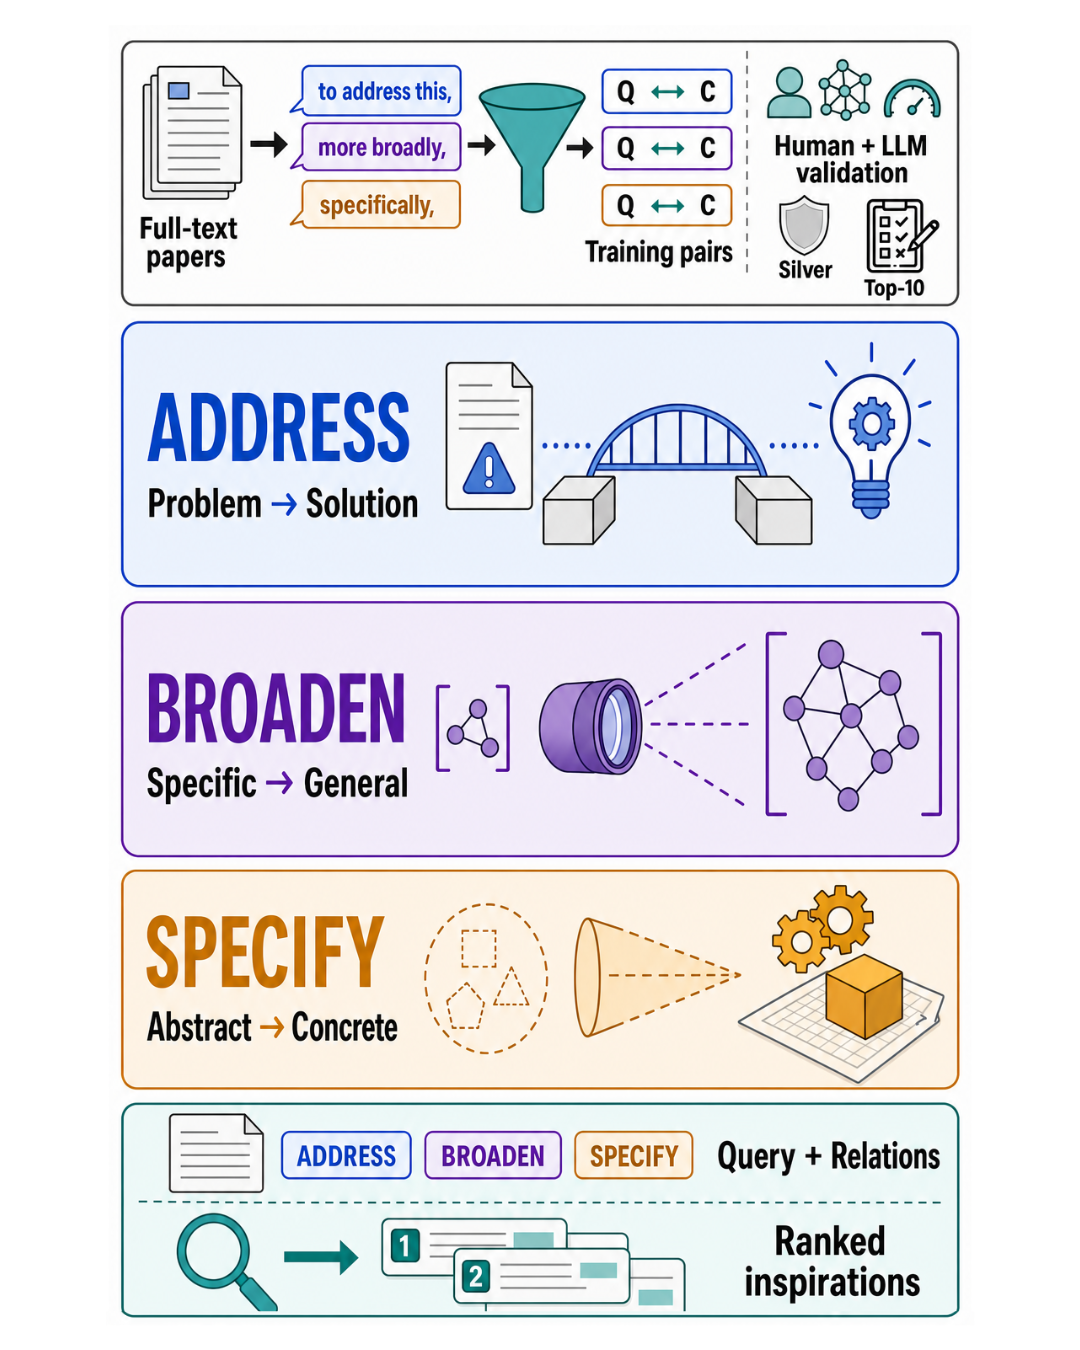
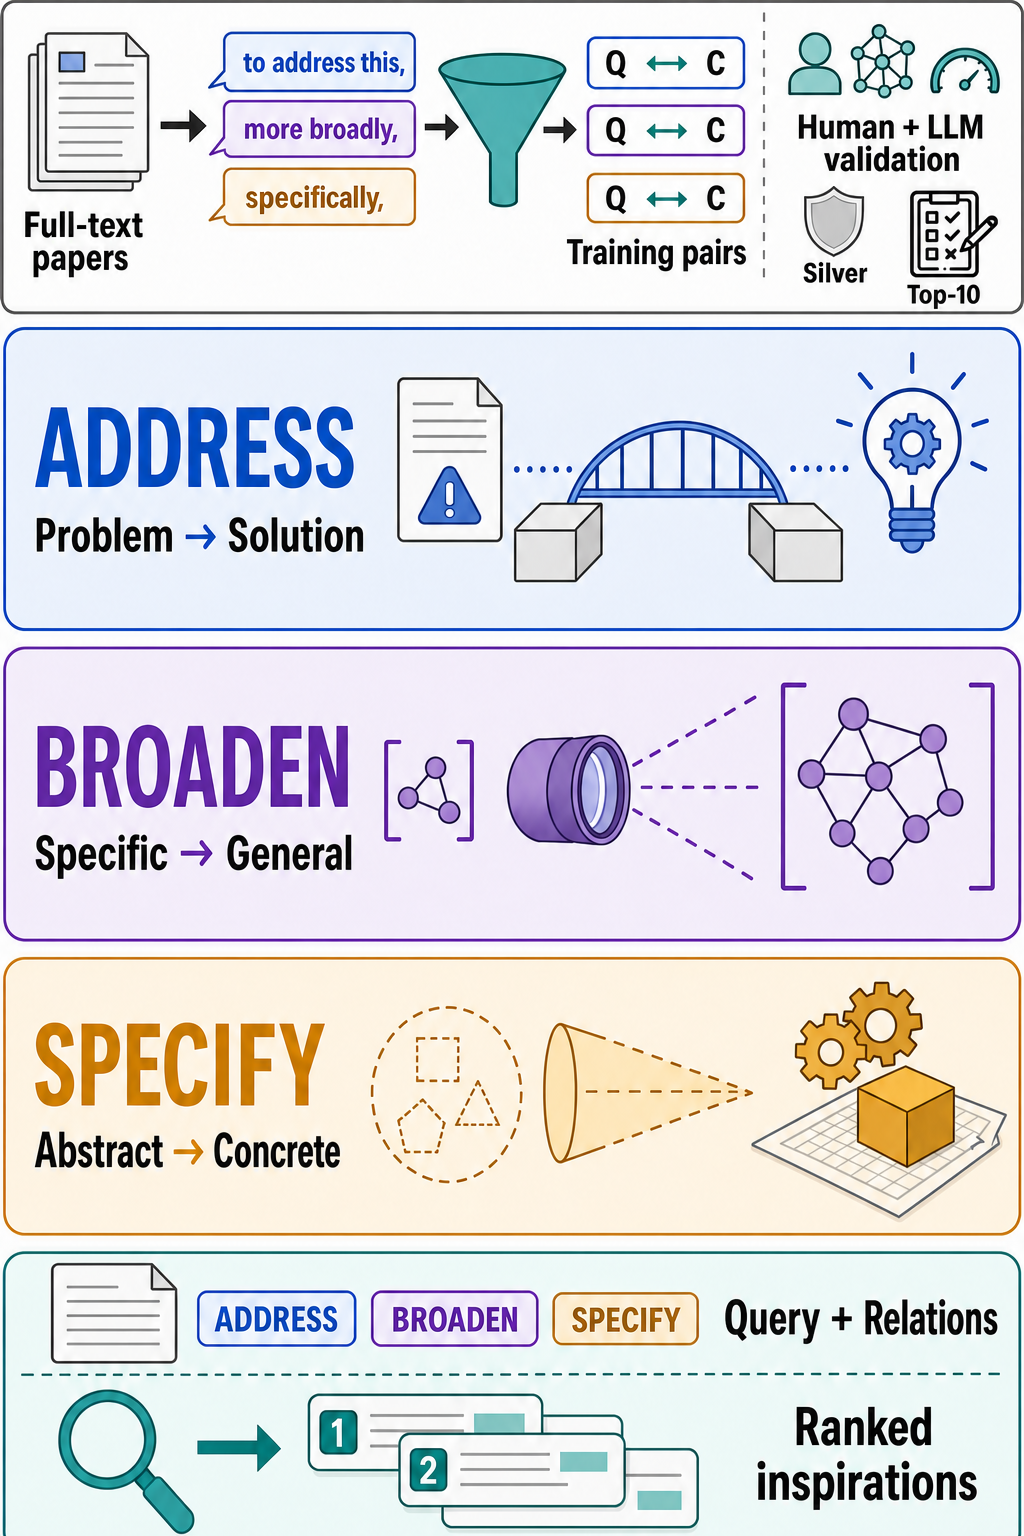
links and project page update with paper's details and links

diff --git a/docs/index.html b/docs/index.html
@@ -110,13 +110,45 @@
     pre#bibtex-block { white-space: pre-wrap; }
     .footer { background-color: #fafafa; }
     .stat-number { font-size: 2rem; font-weight: 700; font-family: 'Google Sans', sans-serif; }
+    .query-chip {
+      background: #2b3a55; color: #fff; border-radius: 8px;
+      padding: 0.75rem 1rem; font-weight: 600; text-align: center; margin: 0.5rem 0 1rem;
+    }
+    .move-example { border-radius: 8px; padding: 0.9rem 1.1rem; height: 100%; }
+    .move-example .tag {
+      font-family: 'Google Sans', sans-serif; font-weight: 700; letter-spacing: 0.04em;
+      font-size: 0.95rem; display: block; margin-bottom: 0.15rem;
+    }
+    .move-example .sub { font-size: 0.8rem; text-transform: uppercase; letter-spacing: 0.05em; opacity: 0.7; }
+    .move-example .cand { margin-top: 0.5rem; font-size: 0.95rem; }
+    .fail-box {
+      background: #fbeeee; border: 1px solid #e6c3c3; border-radius: 8px;
+      padding: 1rem 1.25rem; margin: 1rem 0;
+    }
+    .fail-box .hit { color: #8a4a4a; margin: 0.15rem 0; }
+    .fail-punch { font-weight: 600; color: #a03434; margin-top: 0.5rem; }
+    table.ideation-table { width: 100%; border-collapse: separate; border-spacing: 0 0.5rem; margin: 1.25rem 0; }
+    table.ideation-table td { vertical-align: middle; }
+    td.problem-cell {
+      background: #2b3a55; color: #fff; border-radius: 10px;
+      padding: 1.25rem; text-align: center; width: 34%;
+    }
+    td.problem-cell .problem-label { font-size: 0.8rem; text-transform: uppercase; letter-spacing: 0.06em; opacity: 0.75; }
+    td.problem-cell .problem-text { font-family: 'Google Sans', sans-serif; font-weight: 700; font-size: 1.25rem; margin-top: 0.4rem; }
+    td.arrow-cell { width: 4%; text-align: center; color: #8a8a8a; font-size: 1.5rem; }
+    td.moves-cell { padding-left: 0; }
+    .move-row { border-radius: 8px; padding: 0.85rem 1.1rem; margin-bottom: 0.5rem; }
+    .move-row:last-child { margin-bottom: 0; }
+    .move-row .mr-tag { font-family: 'Google Sans', sans-serif; font-weight: 700; letter-spacing: 0.04em; }
+    .move-row .mr-sub { font-size: 0.8rem; text-transform: uppercase; letter-spacing: 0.05em; opacity: 0.7; margin-left: 0.4rem; }
+    .move-row .mr-cand { margin-top: 0.2rem; }
     .stat-label { color: #6a6a6a; font-size: 0.9rem; }
   </style>
 </head>
 <body>
 
 <div class="news-banner">
-  🎉 The dataset and fine-tuned models are now available on <a href="https://huggingface.co/collections/maayans/ratio">Hugging Face</a>! 🎉
+  🎉 The dataset and fine-tuned models are now available on <a href="https://huggingface.co/collections/maayans/ratio" target="_blank" rel="noopener">Hugging Face</a>! 🎉
 </div>
 
 <section class="hero">
@@ -129,8 +161,8 @@
           </h1>
           <div class="is-size-5 publication-authors">
             <!-- TODO: add link to Maayan Sharon's homepage -->
-            <span class="author-block"><a href="#TODO">Maayan Sharon</a><sup>1</sup>,</span>
-            <span class="author-block"><a href="https://tomhoper.github.io/">Tom Hope</a><sup>1,2</sup></span>
+            <span class="author-block"><a href="https://github.com/maayansharon10" target="_blank" rel="noopener">Maayan Sharon</a><sup>1</sup>,</span>
+            <span class="author-block"><a href="https://tomhoper.github.io/" target="_blank" rel="noopener">Tom Hope</a><sup>1,2</sup></span>
           </div>
           <div class="is-size-5 publication-authors">
             <span class="author-block"><sup>1</sup>The Hebrew University of Jerusalem,</span>
@@ -141,17 +173,17 @@
             <div class="publication-links">
               <!-- TODO: add the arXiv link once available -->
               <span class="link-block">
-                <a href="#TODO" class="external-link button is-normal is-rounded is-dark">
+                <a href="https://arxiv.org/abs/2608.27394" target="_blank" rel="noopener" class="external-link button is-normal is-rounded is-dark">
                   <span class="icon"><i class="ai ai-arxiv"></i></span><span>Paper</span>
                 </a>
               </span>
               <span class="link-block">
-                <a href="https://github.com/maayansharon10/RATIO" class="external-link button is-normal is-rounded is-dark">
+                <a href="https://github.com/maayansharon10/RATIO" class="external-link button is-normal is-rounded is-dark" target="_blank" rel="noopener">
                   <span class="icon"><i class="fab fa-github"></i></span><span>Code</span>
                 </a>
               </span>
               <span class="link-block">
-                <a href="https://huggingface.co/collections/maayans/ratio" class="external-link button is-normal is-rounded is-dark">
+                <a href="https://huggingface.co/collections/maayans/ratio" class="external-link button is-normal is-rounded is-dark" target="_blank" rel="noopener">
                   <span class="icon">🤗</span><span>Data &amp; Models</span>
                 </a>
               </span>
@@ -197,18 +229,62 @@
 
     <h3 class="title is-4">Ideation what?</h3>
     <p>
-      Engaging with prior work is central to how researchers develop new ideas. Consider a researcher grappling
-      with <em>reward hacking in RL-trained LLMs</em>. Three different inspirations may be helpful: one proposing a
-      method (e.g., reward-model ensembles), one zooming out to a more general principle (e.g., Goodhart's law),
-      and one zooming in on a concrete instantiation of that principle in a new setting (e.g., recommender systems
-      gaming engagement metrics). Each one enables a distinct <b>move</b> through the ideation space&mdash;addressing
-      a problem, abstracting it, or grounding it.
+      Engaging with prior work is central to how researchers develop new ideas. Consider a researcher grappling with
+      a problem &mdash; prior literature can inspire them in three distinct ways, each a distinct <b>move</b> through
+      the ideation space:
     </p>
+
+    <table class="ideation-table">
+      <tr>
+        <td class="problem-cell" rowspan="3">
+          <div class="problem-label">A researcher grappling with</div>
+          <div class="problem-text">Reward hacking in RL-trained LLMs</div>
+        </td>
+        <td class="arrow-cell">&rarr;</td>
+        <td class="moves-cell">
+          <div class="move-row move-address">
+            <span class="mr-tag">ADDRESS</span><span class="mr-sub">addressing the problem</span>
+            <div class="mr-cand">A method that mitigates it: <em>Reward-model ensembles</em></div>
+          </div>
+        </td>
+      </tr>
+      <tr>
+        <td class="arrow-cell">&rarr;</td>
+        <td class="moves-cell">
+          <div class="move-row move-broaden">
+            <span class="mr-tag">BROADEN</span><span class="mr-sub">abstracting it</span>
+            <div class="mr-cand">The general principle behind it: <em>Goodhart's law</em></div>
+          </div>
+        </td>
+      </tr>
+      <tr>
+        <td class="arrow-cell">&rarr;</td>
+        <td class="moves-cell">
+          <div class="move-row move-specify">
+            <span class="mr-tag">SPECIFY</span><span class="mr-sub">grounding it</span>
+            <div class="mr-cand">The same principle elsewhere: <em>Recommender systems gaming engagement metrics</em></div>
+          </div>
+        </td>
+      </tr>
+    </table>
+
+    <h3 class="title is-4">Standard search ranks by topic, so the papers that suggest a move stay buried</h3>
     <p>
       Most scholarly retrieval benchmarks evaluate topical relevance or whether a document answers a search query.
-      These criteria do not distinguish between passages that play different <em>ideation roles</em>.
-      <span style="font-variant: small-caps;">Ratio</span> organizes retrieval around three moves that capture
-      complementary forms of inspiration:
+      These criteria do not distinguish between passages that play different <em>ideation roles</em>. Run the query
+      above through BM25 or a dense encoder, and every top hit is <em>about</em> reward hacking:
+    </p>
+    <div class="fail-box">
+      <div class="hit">&bull; Surveys of reward hacking</div>
+      <div class="hit">&bull; Evaluations of reward over-optimization</div>
+      <div class="hit">&bull; Definitions and taxonomies</div>
+      <div class="fail-punch">Every hit is about the topic. Not one of them is a move.</div>
+    </div>
+    <p>
+      The three inspirations above all sit in the same corpus, but they share almost no wording with the query, so
+      a topical retriever ranks them far below. What we need is the <em>relation</em> between query and candidate,
+      not the subject. <span style="font-variant: small-caps;">Ratio</span> organizes retrieval around exactly
+      these three moves:
     </p>
 
     <div class="columns">
@@ -266,8 +342,8 @@
     <p>
       Move-specific marker lexicons are built by an iterative multi-stage process combining manual corpus analysis,
       rule-based (Hearst-style) pattern expansion, and generation by multiple LLMs, followed by expert review and
-      LLM validation. Of 4,256 candidate markers, 807 fired in the corpus; two NLP experts independently vetted all
-      807 and found every one valid. Markers rejected during curation become <em>distractor</em> markers whose
+      LLM validation. Of 4,252 candidate markers, 809 fired in the corpus; two NLP experts independently vetted all
+      809 and found every one valid. Markers rejected during curation become <em>distractor</em> markers whose
       sentences are added to the candidate pool as hard negatives, removing pool-membership shortcuts.
     </p>
 
@@ -281,25 +357,25 @@
     <h4 class="title is-5">Scale</h4>
     <div class="columns has-text-centered">
       <div class="column">
-        <div class="stat-number">3.59M</div>
+        <div class="stat-number">3.02M</div>
         <div class="stat-label">query&ndash;gold pairs (all splits)</div>
       </div>
       <div class="column">
-        <div class="stat-number">14.55M</div>
-        <div class="stat-label">candidate sentences (all splits)</div>
+        <div class="stat-number">13.8M</div>
+        <div class="stat-label">training candidate sentences</div>
       </div>
       <div class="column">
         <div class="stat-number">1.1M</div>
         <div class="stat-label">source papers</div>
       </div>
       <div class="column">
-        <div class="stat-number">807</div>
+        <div class="stat-number">809</div>
         <div class="stat-label">human-vetted markers</div>
       </div>
     </div>
     <p>
-      <span style="font-variant: small-caps;">Ratio</span> comprises 2,779,177 SPECIFY, 793,347 ADDRESS, and
-      15,592 BROADEN pairs. Splits are <b>temporal</b> to enforce a strict approach against contamination:
+      <span style="font-variant: small-caps;">Ratio</span> comprises 3,017,476 query&ndash;gold pairs&mdash;2,779,177 SPECIFY, 222,707 ADDRESS, and
+      15,592 BROADEN. Splits are <b>temporal</b> to enforce a strict approach against contamination:
       training uses papers from 2015 through September 2025, validation the remainder of 2025, and the test set
       papers from 2026 only&mdash;postdating the public release of every evaluated model, so no backbone could have
       encountered them during pre-training. The candidate corpus of each split is shared by all three relations,
@@ -330,9 +406,9 @@
           </tr>
           <tr>
             <td>ADDRESS</td>
-            <td class="has-text-right">719,136</td>
-            <td class="has-text-right">31,963</td>
-            <td class="has-text-right">42,248</td>
+            <td class="has-text-right">195,605</td>
+            <td class="has-text-right">13,082</td>
+            <td class="has-text-right">14,020</td>
           </tr>
           <tr>
             <td>BROADEN</td>
@@ -350,9 +426,10 @@
 
     <h4 class="title is-5">Human-calibrated validation</h4>
     <p>
-      We complement the mined benchmark with a human-calibrated, LLM-validated <b>silver test set</b> of 13,729 queries.
+      We complement the mined benchmark with a human-calibrated, LLM-validated <b>silver test set</b> of 17,579 queries
+      (7,327 SPECIFY, 9,668 ADDRESS, 584 BROADEN).
       For each relation we write 4&ndash;6 candidate validation prompts and keep the two that best match expert
-      judgments (F1 of .85&ndash;.88 for ADDRESS and SPECIFY, .76 for BROADEN, against 300 expert annotations);
+      judgments (F1 of .83&ndash;.84 for ADDRESS, .86&ndash;.87 for SPECIFY, .76 for BROADEN, against 300 expert annotations);
       inter-annotator F1 among five experts is .87 / .90 / .82. A pair is kept only if both prompts accept it.
       We further validate <b>top-10 retrieved candidates</b> to account for false negatives.
     </p>
@@ -362,7 +439,7 @@
       We evaluate BM25 and three dense retrievers (all-mpnet-base-v2, ModernBERT-embed-large, Stella-en-1.5B-v5),
       each as a pre-trained baseline and after relation-specific contrastive fine-tuning. Baseline pre-trained
       models provide limited gains over BM25, whereas move-specific fine-tuning yields substantial improvements,
-      increasing performance by <b>1.5&times;&ndash;2.7&times;</b>. ModernBERT-embed-large is the strongest model
+      increasing MRR@10 by <b>1.6&times;&ndash;2.4&times;</b> for ModernBERT-embed-large. ModernBERT-embed-large is the strongest model
       on every operation:
     </p>
 
@@ -380,19 +457,19 @@
           <tr>
             <td>BM25 (unigram)</td>
             <td class="has-text-centered">17.6</td>
-            <td class="has-text-centered">8.7</td>
+            <td class="has-text-centered">8.3</td>
             <td class="has-text-centered">10.9</td>
           </tr>
           <tr>
             <td>ModernBERT-embed-large &mdash; baseline</td>
-            <td class="has-text-centered">26.0</td>
-            <td class="has-text-centered">11.1</td>
+            <td class="has-text-centered">26.7</td>
+            <td class="has-text-centered">10.2</td>
             <td class="has-text-centered">17.3</td>
           </tr>
           <tr>
             <td><b>ModernBERT-embed-large &mdash; fine-tuned</b></td>
-            <td class="has-text-centered"><b>44.0</b></td>
-            <td class="has-text-centered"><b>29.5</b></td>
+            <td class="has-text-centered"><b>46.7</b></td>
+            <td class="has-text-centered"><b>24.5</b></td>
             <td class="has-text-centered"><b>27.3</b></td>
           </tr>
         </tbody>
@@ -406,18 +483,18 @@
 
     <h3 class="title is-4">The mined positive is not the only valid inspiration</h3>
     <p>
-      Single-positive metrics are a scalable lower bound: they test whether the retriever ranks one known-valid
-      inspiration highly, not whether the mined positive is the only valid one. We therefore judge each of the
-      top-10 retrieved candidates independently with human-calibrated LLM prompts (400 queries per relation,
-      24K judged pairs). After fine-tuning, at least one accepted candidate appears in the top 10 for
-      <b>89.0%</b> of SPECIFY and <b>80.0%</b> of ADDRESS queries (hard agreement: both prompts accept), with accepted candidates per ADDRESS list rising
-      from 0.60 to 2.36.
+      One gold per query makes every number a <b>floor</b>: with 404,371 candidates, the corpus almost certainly
+      holds other valid answers the single mined gold misses. To measure what fine-tuning actually learned, we judge
+      each of the top-10 retrieved candidates independently with human-calibrated LLM prompts (400 queries per
+      relation, 24K judged pairs). After fine-tuning, at least one accepted candidate appears in the top 10 for
+      <b>89.0%</b> of SPECIFY and <b>76.5%</b> of ADDRESS queries (hard agreement: both prompts accept), with
+      accepted candidates per ADDRESS list rising from 0.61 to 1.67.
     </p>
     <p>
-      On tuned ADDRESS, for 40.8% of queries the gold is not ranked in the top 10 yet the judge accepts an
-      alternative candidate; counting any accepted candidate raises ADDRESS MRR@10 from 29.5 to 48.7.
+      On tuned ADDRESS, for 41.2% of queries the gold is not ranked in the top 10 yet the judge accepts an
+      alternative candidate; counting any accepted candidate raises ADDRESS MRR@10 from 24.5 to 41.2.
       These discovered positives overlap lexically with the query <em>less</em> than the mined positives do,
-      and <b>88&ndash;94%</b> of all accepted candidates come from papers other than the query's&mdash;tuned
+      and <b>88&ndash;90%</b> of all accepted candidates come from papers other than the query's&mdash;tuned
       retrievers surface valid solution directions from the broader literature, i.e., inspiration in the intended
       sense, rather than exploiting adjacency or other shallow shortcuts.
     </p>
@@ -434,16 +511,15 @@
 
 <section class="section" id="BibTeX">
   <div class="container is-max-desktop content">
-    <h2 class="title">BibTeX</h2>
-    <!-- TODO: replace with the final BibTeX entry once the arXiv ID exists -->
-    <pre id="bibtex-block"><code>@misc{sharon2026ratio,
-  title={RATIO: A Benchmark for Retrieval Across Typed Ideation Operations in Scientific Literature},
-  author={Maayan Sharon and Tom Hope},
-  year={2026},
-  eprint={TODO},
-  archivePrefix={arXiv},
-  primaryClass={cs.CL},
-  url={TODO},
+    <h2 class="title">Citation (BibTeX)</h2>
+    <pre id="bibtex-block"><code>@misc{sharon2026ratiobenchmarkretrievaltyped,
+      title={RATIO: A Benchmark for Retrieval Across Typed Ideation Operations in Scientific Literature},
+      author={Maayan Sharon and Tom Hope},
+      year={2026},
+      eprint={2608.27394},
+      archivePrefix={arXiv},
+      primaryClass={cs.CL},
+      url={https://arxiv.org/abs/2608.27394},
 }</code></pre>
   </div>
 </section>
@@ -455,8 +531,8 @@
         <div class="content has-text-centered">
           <p>
             This page was built using the
-            <a href="https://github.com/eliahuhorwitz/Academic-project-page-template">Academic Project Page Template</a>,
-            adopted from the <a href="https://nerfies.github.io">Nerfies</a> project page.
+            <a href="https://github.com/eliahuhorwitz/Academic-project-page-template" target="_blank" rel="noopener">Academic Project Page Template</a>,
+            adopted from the <a href="https://nerfies.github.io" target="_blank" rel="noopener">Nerfies</a> project page.
             You are free to borrow the source code of this website, we just ask that you link back to this page in the footer.
             <br>
             This website is licensed under a
